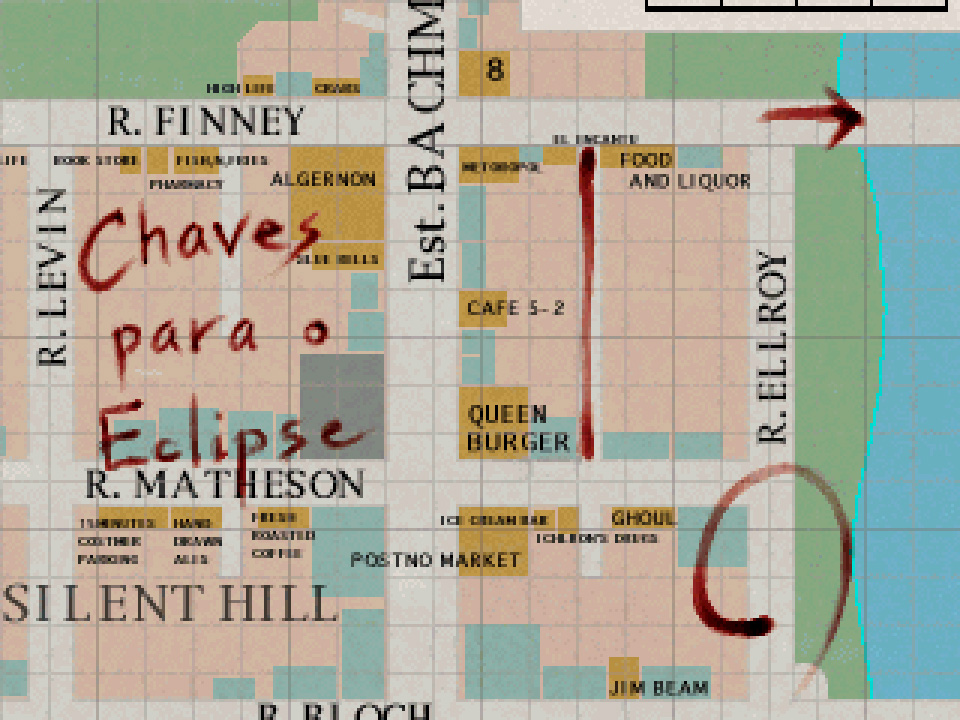
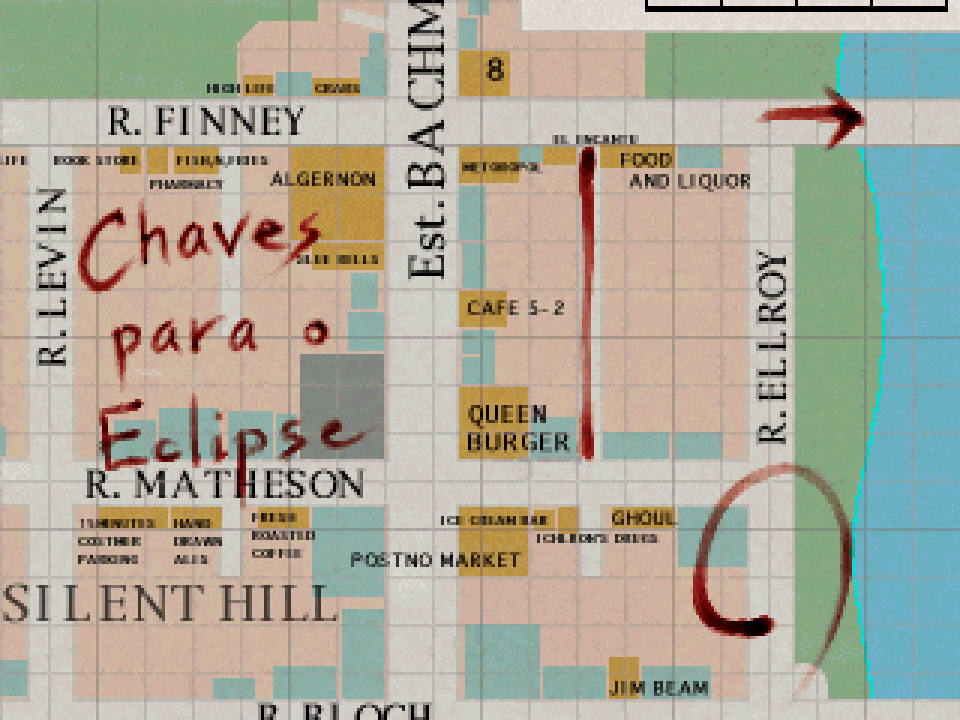
fazendo o texto "Chaves para o Eclipse"

Changed region(s): [[0.4062, 0.0, 0.4688, 0.3972]]

diff --git a/index.html b/index.html
@@ -359,7 +359,16 @@
                 </div>
                 <div class="texto">
                     <p>
-
+                        Mapa com anotações, encontrado pendurado na parede próxima a porta dos fundos da casa que
+                        entramos após pegar a chave dentro da casa de cachorro. Para traduzi-la tive que imaginar como
+                        seriam as letras na caligrafia usada no original, letras espaçadas com aparência de ter sido
+                        escrito com pressa, ou seja a tinta é mais escura onde as letras começam a ser escritas e mais
+                        fraca onde terminam, com isso em mente, peguei cada letra de uma fonte diferente, cuja a
+                        aparência fosse semelhante a caligrafia original, então cada letra foi posicionada e editada
+                        individualmente (exceto as letras "e", "s", "o" e "r", que já estão presentes no original e
+                        bastou copiá-las e posicioná-las corretamente), cada letra também foi levemente rotacionada e/ou
+                        inclinada, fazendo as letras, quando uma ao lado da outra, formarem uma espécie de arco, tudo
+                        isso para causar a impressão de imperfeição de algo é feito a mão e de qualquer jeito.
                     </p>
                 </div>
             </div>

diff --git a/ContTraduSilent/traduSilent.js b/ContTraduSilent/traduSilent.js
@@ -179,6 +179,7 @@ function traduSilent() {
         imgchavesparaoeclipse.style.opacity = 0;
         imgvisivel = false;
     });
+    
     function carregamento() {//Faz os elementos do primeiro "slide" aparecerem e após isso permite trocar de slide.
         arrayfundos[1].style.opacity = "1";
         info.style.display = "block";
